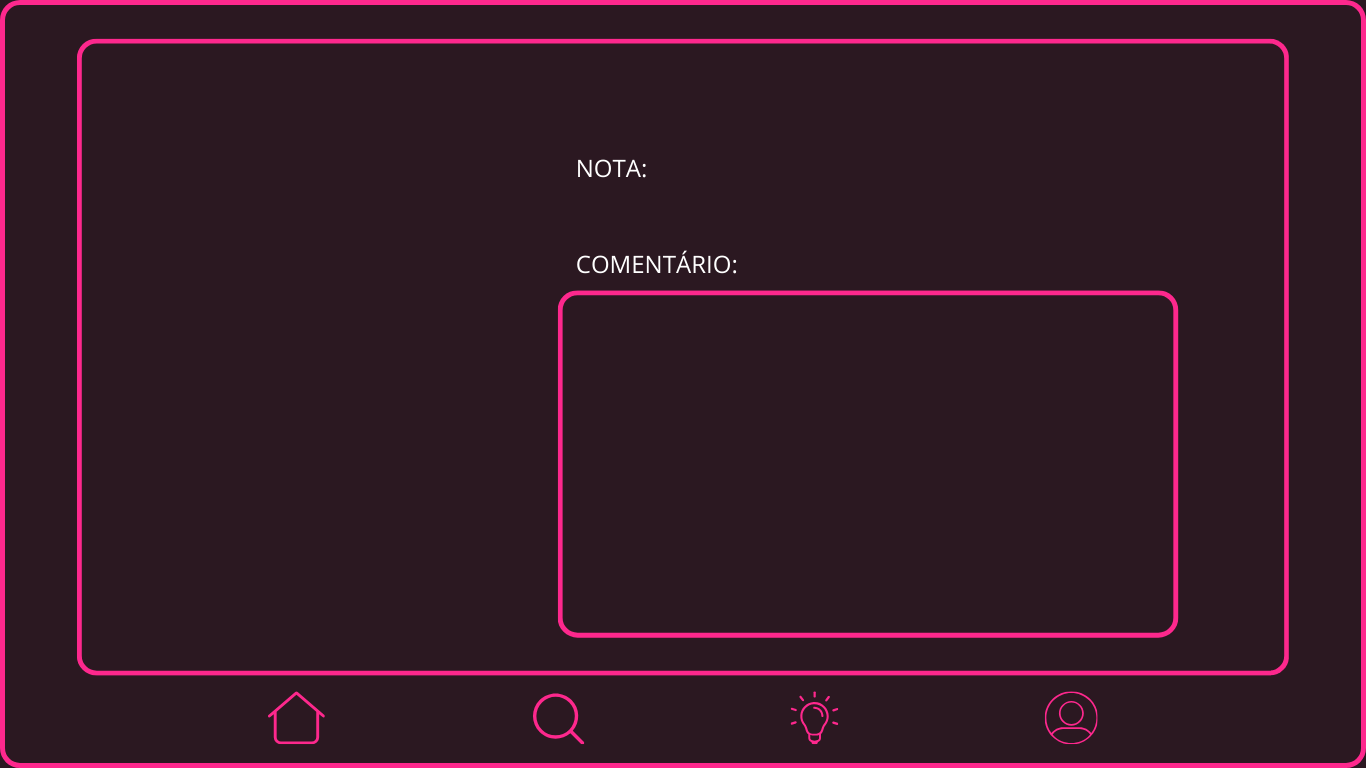
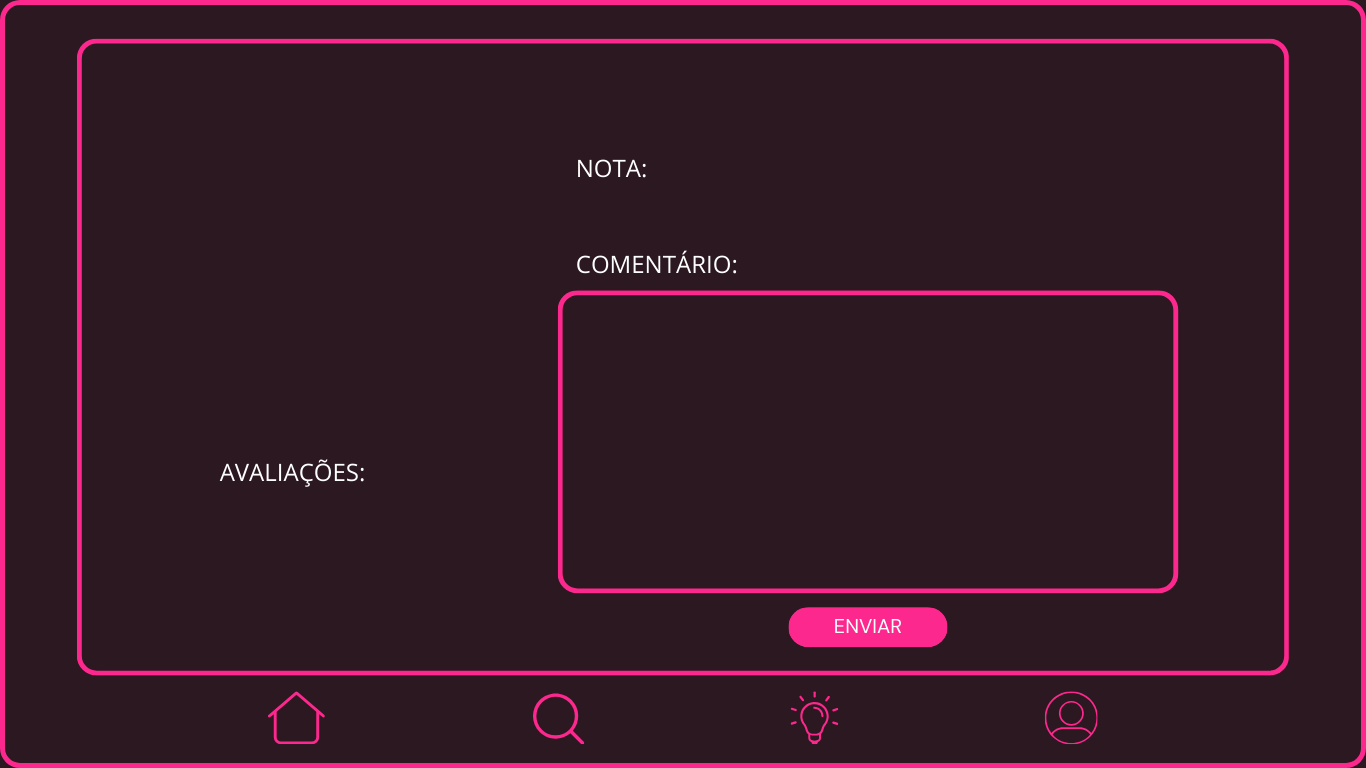
19/12 pt2

Changed region(s): [[0.3997, 0.75, 0.8609, 0.8438], [0.1537, 0.5938, 0.2767, 0.625]]

diff --git a/src/main/java/view/TelaItemPesquisado.java b/src/main/java/view/TelaItemPesquisado.java
@@ -12,6 +12,8 @@ import java.io.IOException;
 import javax.imageio.ImageIO;
 import javax.swing.Icon;
 import javax.swing.ImageIcon;
+import javax.swing.JOptionPane;
+import model.Item;
 
 /**
  *
@@ -25,6 +27,7 @@ public class TelaItemPesquisado extends javax.swing.JPanel {
     private ImageIcon estrelaAvaliada;
     private ImageIcon estrelaNaoAvaliada;
     private UsuarioControl usuarioC = new UsuarioControl();
+    private int nota;
 
     public TelaItemPesquisado(String itemPesquisado) {
         initComponents();
@@ -76,7 +79,7 @@ public class TelaItemPesquisado extends javax.swing.JPanel {
     private void initComponents() {
 
         jScrollPane1 = new javax.swing.JScrollPane();
-        comentario = new javax.swing.JTextArea();
+        comentarioTxt = new javax.swing.JTextArea();
         nomeItem = new javax.swing.JLabel();
         nota5 = new javax.swing.JLabel();
         nota4 = new javax.swing.JLabel();
@@ -88,20 +91,32 @@ public class TelaItemPesquisado extends javax.swing.JPanel {
         quizBtn = new javax.swing.JLabel();
         inicioBtn = new javax.swing.JLabel();
         pesquisarBtn = new javax.swing.JLabel();
+        enviarBtn = new javax.swing.JLabel();
+        star5 = new javax.swing.JLabel();
+        star4 = new javax.swing.JLabel();
+        star3 = new javax.swing.JLabel();
+        star1 = new javax.swing.JLabel();
+        star2 = new javax.swing.JLabel();
 
         setLayout(new org.netbeans.lib.awtextra.AbsoluteLayout());
 
-        comentario.setBackground(new java.awt.Color(43, 24, 33));
-        comentario.setColumns(20);
-        comentario.setForeground(new java.awt.Color(255, 255, 255));
-        comentario.setRows(5);
-        jScrollPane1.setViewportView(comentario);
+        jScrollPane1.setBorder(null);
 
-        add(jScrollPane1, new org.netbeans.lib.awtextra.AbsoluteConstraints(570, 300, 600, 330));
+        comentarioTxt.setBackground(new java.awt.Color(43, 24, 33));
+        comentarioTxt.setColumns(20);
+        comentarioTxt.setFont(new java.awt.Font("Segoe UI", 0, 18)); // NOI18N
+        comentarioTxt.setForeground(new java.awt.Color(255, 255, 255));
+        comentarioTxt.setRows(5);
+        comentarioTxt.setDisabledTextColor(new java.awt.Color(43, 24, 33));
+        jScrollPane1.setViewportView(comentarioTxt);
+
+        add(jScrollPane1, new org.netbeans.lib.awtextra.AbsoluteConstraints(570, 300, 600, 280));
 
         nomeItem.setBackground(new java.awt.Color(255, 255, 255));
+        nomeItem.setFont(new java.awt.Font("Segoe UI", 0, 18)); // NOI18N
         nomeItem.setForeground(new java.awt.Color(255, 255, 255));
-        add(nomeItem, new org.netbeans.lib.awtextra.AbsoluteConstraints(210, 310, 140, 30));
+        nomeItem.setHorizontalAlignment(javax.swing.SwingConstants.CENTER);
+        add(nomeItem, new org.netbeans.lib.awtextra.AbsoluteConstraints(80, 310, 400, 30));
 
         nota5.setIcon(new javax.swing.ImageIcon(getClass().getResource("/estrela_nao_avaliada.png"))); // NOI18N
         nota5.addMouseListener(new java.awt.event.MouseAdapter() {
@@ -177,6 +192,28 @@ public class TelaItemPesquisado extends javax.swing.JPanel {
             }
         });
         add(pesquisarBtn, new org.netbeans.lib.awtextra.AbsoluteConstraints(530, 690, 60, 60));
+
+        enviarBtn.addMouseListener(new java.awt.event.MouseAdapter() {
+            public void mouseClicked(java.awt.event.MouseEvent evt) {
+                enviarBtnMouseClicked(evt);
+            }
+        });
+        add(enviarBtn, new org.netbeans.lib.awtextra.AbsoluteConstraints(800, 610, 140, 40));
+
+        star5.setIcon(new javax.swing.ImageIcon(getClass().getResource("/starMiniVazia.png"))); // NOI18N
+        add(star5, new org.netbeans.lib.awtextra.AbsoluteConstraints(400, 490, 70, 60));
+
+        star4.setIcon(new javax.swing.ImageIcon(getClass().getResource("/starMiniVazia.png"))); // NOI18N
+        add(star4, new org.netbeans.lib.awtextra.AbsoluteConstraints(330, 490, 70, 60));
+
+        star3.setIcon(new javax.swing.ImageIcon(getClass().getResource("/starMiniVazia.png"))); // NOI18N
+        add(star3, new org.netbeans.lib.awtextra.AbsoluteConstraints(260, 490, 70, 60));
+
+        star1.setIcon(new javax.swing.ImageIcon(getClass().getResource("/starMiniVazia.png"))); // NOI18N
+        add(star1, new org.netbeans.lib.awtextra.AbsoluteConstraints(120, 490, 70, 60));
+
+        star2.setIcon(new javax.swing.ImageIcon(getClass().getResource("/starMiniVazia.png"))); // NOI18N
+        add(star2, new org.netbeans.lib.awtextra.AbsoluteConstraints(190, 490, 70, 60));
     }// </editor-fold>//GEN-END:initComponents
 
     private void perfilBtnMouseClicked(java.awt.event.MouseEvent evt) {//GEN-FIRST:event_perfilBtnMouseClicked
@@ -184,7 +221,7 @@ public class TelaItemPesquisado extends javax.swing.JPanel {
     }//GEN-LAST:event_perfilBtnMouseClicked
 
     private void quizBtnMouseClicked(java.awt.event.MouseEvent evt) {//GEN-FIRST:event_quizBtnMouseClicked
-        FramePrincipal.trocaPainel("tela quiz", new TelaEscolhaFML());
+        FramePrincipal.trocaPainel("tela quiz", new TelaQuiz());
     }//GEN-LAST:event_quizBtnMouseClicked
 
     private void inicioBtnMouseClicked(java.awt.event.MouseEvent evt) {//GEN-FIRST:event_inicioBtnMouseClicked
@@ -202,8 +239,10 @@ public class TelaItemPesquisado extends javax.swing.JPanel {
             nota3.setIcon(this.estrelaNaoAvaliada);
             nota4.setIcon(this.estrelaNaoAvaliada);
             nota5.setIcon(this.estrelaNaoAvaliada);
+            this.nota = 0;
         } else {
             nota1.setIcon(this.estrelaAvaliada);
+            this.nota = 1;
         }
     }//GEN-LAST:event_nota1MouseClicked
 
@@ -213,9 +252,11 @@ public class TelaItemPesquisado extends javax.swing.JPanel {
             nota3.setIcon(this.estrelaNaoAvaliada);
             nota4.setIcon(this.estrelaNaoAvaliada);
             nota5.setIcon(this.estrelaNaoAvaliada);
+            this.nota = 1;
         } else {
             nota1.setIcon(this.estrelaAvaliada);
             nota2.setIcon(this.estrelaAvaliada);
+            this.nota = 2;
         }
     }//GEN-LAST:event_nota2MouseClicked
 
@@ -224,10 +265,12 @@ public class TelaItemPesquisado extends javax.swing.JPanel {
             nota3.setIcon(this.estrelaNaoAvaliada);
             nota4.setIcon(this.estrelaNaoAvaliada);
             nota5.setIcon(this.estrelaNaoAvaliada);
+            this.nota = 2;
         } else {
             nota1.setIcon(this.estrelaAvaliada);
             nota2.setIcon(this.estrelaAvaliada);
             nota3.setIcon(this.estrelaAvaliada);
+            this.nota = 3;
         }
     }//GEN-LAST:event_nota3MouseClicked
 
@@ -235,11 +278,13 @@ public class TelaItemPesquisado extends javax.swing.JPanel {
         if (nota4.getIcon() == this.estrelaAvaliada) {
             nota4.setIcon(this.estrelaNaoAvaliada);
             nota5.setIcon(this.estrelaNaoAvaliada);
+            this.nota = 3;
         } else {
             nota1.setIcon(this.estrelaAvaliada);
             nota2.setIcon(this.estrelaAvaliada);
             nota3.setIcon(this.estrelaAvaliada);
             nota4.setIcon(this.estrelaAvaliada);
+            this.nota = 4;
         }
 
     }//GEN-LAST:event_nota4MouseClicked
@@ -247,18 +292,35 @@ public class TelaItemPesquisado extends javax.swing.JPanel {
     private void nota5MouseClicked(java.awt.event.MouseEvent evt) {//GEN-FIRST:event_nota5MouseClicked
         if (nota5.getIcon() == this.estrelaAvaliada) {
             nota5.setIcon(this.estrelaNaoAvaliada);
+            this.nota = 4;
         } else {
             nota1.setIcon(this.estrelaAvaliada);
             nota2.setIcon(this.estrelaAvaliada);
             nota3.setIcon(this.estrelaAvaliada);
             nota4.setIcon(this.estrelaAvaliada);
             nota5.setIcon(this.estrelaAvaliada);
+            this.nota = 5;
         }
     }//GEN-LAST:event_nota5MouseClicked
 
+    private void enviarBtnMouseClicked(java.awt.event.MouseEvent evt) {//GEN-FIRST:event_enviarBtnMouseClicked
+        if (comentarioTxt.getText().isEmpty()) {
+            JOptionPane.showMessageDialog(this, "Informe seu comentário!");
+        } else {
+            comentarioTxt.setText("");
+            nota1.setIcon(this.estrelaNaoAvaliada);
+            nota2.setIcon(this.estrelaNaoAvaliada);
+            nota3.setIcon(this.estrelaNaoAvaliada);
+            nota4.setIcon(this.estrelaNaoAvaliada);
+            nota5.setIcon(this.estrelaNaoAvaliada);
+            JOptionPane.showMessageDialog(this, "AVALIAÇÃO ENVIADA COM SUCESSO");
+        }
+    }//GEN-LAST:event_enviarBtnMouseClicked
+
 
     // Variables declaration - do not modify//GEN-BEGIN:variables
-    private javax.swing.JTextArea comentario;
+    private javax.swing.JTextArea comentarioTxt;
+    private javax.swing.JLabel enviarBtn;
     private javax.swing.JLabel inicioBtn;
     private javax.swing.JLabel jLabel2;
     private javax.swing.JScrollPane jScrollPane1;
@@ -271,5 +333,10 @@ public class TelaItemPesquisado extends javax.swing.JPanel {
     private javax.swing.JLabel perfilBtn;
     private javax.swing.JLabel pesquisarBtn;
     private javax.swing.JLabel quizBtn;
+    private javax.swing.JLabel star1;
+    private javax.swing.JLabel star2;
+    private javax.swing.JLabel star3;
+    private javax.swing.JLabel star4;
+    private javax.swing.JLabel star5;
     // End of variables declaration//GEN-END:variables
 }

diff --git a/src/main/java/view/TelaPerguntas.java b/src/main/java/view/TelaPerguntas.java
@@ -68,6 +68,7 @@ public class TelaPerguntas extends javax.swing.JPanel {
         setLayout(new org.netbeans.lib.awtextra.AbsoluteLayout());
 
         jScrollPane4.setBackground(new java.awt.Color(253, 40, 141));
+        jScrollPane4.setBorder(null);
         jScrollPane4.setForeground(new java.awt.Color(43, 24, 33));
 
         jTextArea1.setEditable(false);
@@ -75,7 +76,8 @@ public class TelaPerguntas extends javax.swing.JPanel {
         jTextArea1.setColumns(20);
         jTextArea1.setForeground(new java.awt.Color(255, 255, 255));
         jTextArea1.setRows(5);
-        jTextArea1.setBorder(null);
+        jTextArea1.setBorder(javax.swing.BorderFactory.createLineBorder(new java.awt.Color(253, 40, 141), 0));
+        jTextArea1.setSelectedTextColor(new java.awt.Color(253, 40, 141));
         jScrollPane4.setViewportView(jTextArea1);
 
         add(jScrollPane4, new org.netbeans.lib.awtextra.AbsoluteConstraints(290, 130, 810, 200));

diff --git a/src/main/java/view/TelaPesquisar.java b/src/main/java/view/TelaPesquisar.java
@@ -102,6 +102,7 @@ public class TelaPesquisar extends javax.swing.JPanel {
         });
         add(pesqBtn, new org.netbeans.lib.awtextra.AbsoluteConstraints(1167, 50, 50, 50));
 
+        resultadoList.setBorder(null);
         resultadoList.setFont(new java.awt.Font("Swis721 Ex BT", 0, 14)); // NOI18N
 
         resultList.setBackground(new java.awt.Color(43, 24, 33));

diff --git a/src/main/java/view/TelaPerfil.java b/src/main/java/view/TelaPerfil.java
@@ -99,6 +99,8 @@ public class TelaPerfil extends javax.swing.JPanel {
         });
         add(pesquisarBtn, new org.netbeans.lib.awtextra.AbsoluteConstraints(530, 690, 60, 60));
 
+        jScrollPane1.setBorder(null);
+
         itemUser.setBackground(new java.awt.Color(43, 24, 33));
         itemUser.setBorder(null);
         jScrollPane1.setViewportView(itemUser);
